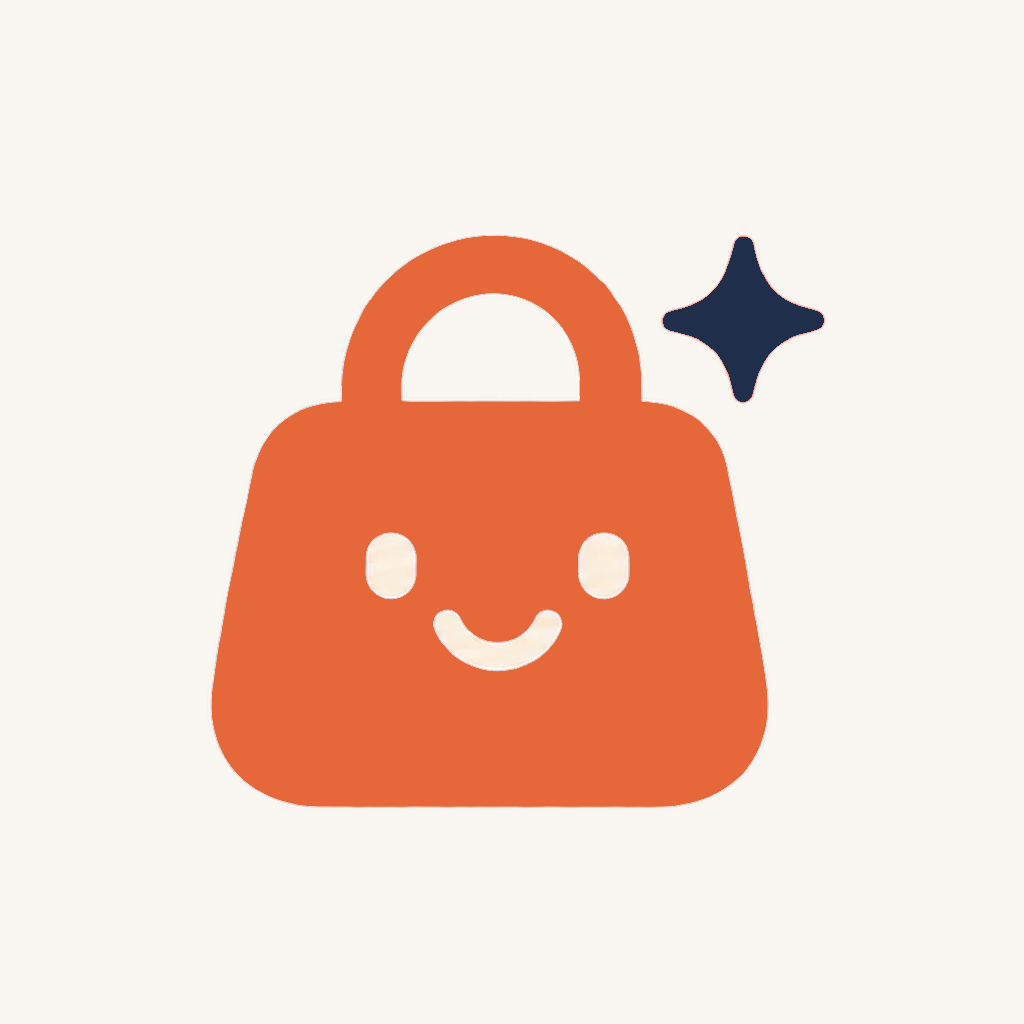
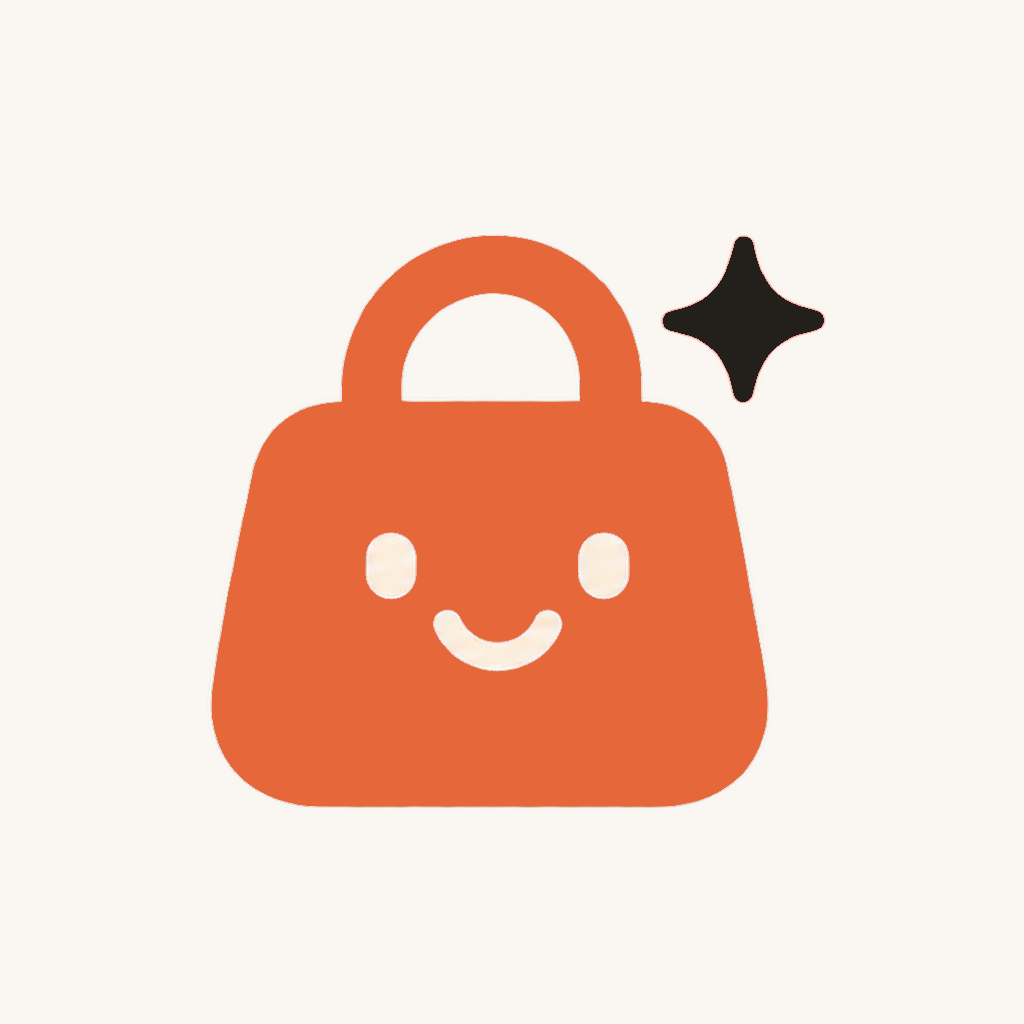
Orange + yellow palette (analogous, Amazon-style): drop the clashing indigo
- Yellow #FFD814 for Add to cart / Add the set / Checkout, charcoal text (11.8:1), darker-yellow edge
- Terracotta orange for the brand and Buy now / primary buttons (white on #BF4F26, 4.8:1)
- Warm charcoal #231F1A replaces indigo for text and dark surfaces; quiz card and result hero in yellow
- Logo, wordmark and icons recoloured (orange bag, charcoal sparkle and wordmark)

Claude-Session: https://claude.ai/code/session_012wqzAwzB3todXZcczmyirL

Changed region(s): [[0.6562, 0.2188, 0.8125, 0.4062]]

diff --git a/marketplace-app/src/lib/theme.ts b/marketplace-app/src/lib/theme.ts
@@ -1,38 +1,40 @@
-// Colour system: "Sunset & Sage" (contrast-checked to WCAG AA).
-// - TERRACOTTA (#E66739) is the brand: logo, icons, badges. Buying actions use a deeper terracotta
-//   (#BF4F26) so white button text passes AA (4.8:1; white on #E66739 is only 3.3:1). Warm orange-red
-//   reads as energy and appetite, and it is used for buying only, so the button is what the eye finds.
-// - DEEP INDIGO (#1E2E4B) is terracotta's complement (blue vs orange): text, headers, primary buttons.
-//   Indigo on cream is 12.7:1.
-// - SAGE (#8AA382) is the calm counterweight (green opposite red on the wheel): secondary actions
-//   (indigo text on sage, 4.9:1) and trust cues (deep sage text #4D6B46, 5.6:1).
-// - SOFT BLUSH (#F6E3E0) for highlighted panels; WARM CREAM (#FAF7F2) background keeps photos the most
-//   saturated thing on screen.
-// - Red only means a real saving or a problem (sale prices, low stock, errors, count badges).
+// Colour system: warm analogous palette, orange + yellow (contrast-checked to WCAG AA).
+// - Orange and yellow sit next to each other on the colour wheel (analogous harmony), so nothing
+//   clashes; the earlier indigo was orange's complement and fought with it on a warm background.
+//   It is the palette shoppers already read as "buy" (Amazon: yellow Add to Cart, orange Buy Now).
+// - YELLOW (#FFD814) is the main buying action (Add to cart, Add the set, Checkout, Pay), with
+//   charcoal text (11.8:1) and a darker-yellow edge, because yellow on cream is only 1.3:1.
+// - TERRACOTTA ORANGE is the brand (#E66739 logo, icons) and the strong secondary action
+//   (Buy now, primary buttons: #BF4F26 with white text, 4.8:1); #B34A22 for orange text and links (5.0:1).
+// - WARM CHARCOAL (#231F1A) replaces blue for text and dark surfaces (15.3:1 on cream): a neutral
+//   that belongs to the warm family instead of competing with it.
+// - Green only means trust (in stock, returns, guarantees); red only means a saving or a problem.
 export const C = {
   bg: '#FAF7F2', // warm cream
   surface: '#FFFFFF',
-  ink: '#1E2E4B', // deep indigo
-  ink2: '#4A5670',
-  ink3: '#646D85',
+  ink: '#231F1A', // warm charcoal
+  ink2: '#5A5148',
+  ink3: '#716759',
   line: '#EDE6DC',
   photo: '#F3EEE7', // product photo backdrop
-  accent: '#B34A22', // terracotta text: links, selection, progress, icons (5.0:1 on cream)
-  accentSoft: '#F6E3E0', // soft blush
-  buy: '#BF4F26', // deep terracotta: buying actions only
-  buyPressed: '#A8431F',
-  buyInk: '#FFFFFF',
-  buySoft: '#FBE9E2',
+  accent: '#B34A22', // orange text: links, selection, progress, icons
+  accentSoft: '#FDE9DC', // soft orange panels
+  buy: '#FFD814', // yellow: main buying actions
+  buyPressed: '#F7CA00',
+  buyInk: '#231F1A',
+  buyEdge: '#E3B800', // button edge so yellow reads on cream
+  buySoft: '#FFF3C4',
   brand: '#E66739', // terracotta: logo, icons, badges (not text)
-  sage: '#8AA382', // secondary actions, with indigo text
+  primary: '#BF4F26', // deep terracotta: Buy now, primary buttons (white text)
+  sage: '#FDE1D3', // secondary actions (soft orange), charcoal text
   sale: '#C8102E', // real discounts, low stock, errors, badges
   saleSoft: '#FDE8EA',
-  good: '#4D6B46', // deep sage: in stock, returns, guarantees, success
+  good: '#4D6B46', // trust: in stock, returns, guarantees, success
   goodSoft: '#E8EFE5',
   warn: '#8A5A00',
   warnSoft: '#FFF3D1',
   spark: '#E66739', // logo and mascot accents
-  dark: '#1E2E4B',
+  dark: '#231F1A',
 };
 
 export const R = { sm: 8, md: 14, lg: 20, pill: 999 };

diff --git a/marketplace-app/src/app/match/[icp].tsx b/marketplace-app/src/app/match/[icp].tsx
@@ -38,16 +38,16 @@ export default function Match() {
     <SafeAreaView edges={['top']} style={{ flex: 1, backgroundColor: C.bg }}>
       <Header back title="Your match" />
       <ScrollView contentContainerStyle={{ paddingBottom: 40 }}>
-        <View style={{ margin: S.lg, padding: S.lg, borderRadius: R.lg, backgroundColor: C.ink }}>
-          <Text style={[T.tiny, { color: '#F2A584' }]}>YOUR MATCH</Text>
-          <Text style={{ color: '#fff', fontSize: 28, fontWeight: '900', marginTop: 6 }}>{info.title}</Text>
-          <Text style={{ color: '#D9DEEA', marginTop: 6, fontSize: 15, lineHeight: 21 }}>{info.line} Here's what fits, best match first.</Text>
+        <View style={{ margin: S.lg, padding: S.lg, borderRadius: R.lg, backgroundColor: C.buy, borderWidth: 1, borderColor: C.buyEdge }}>
+          <Text style={[T.tiny, { color: C.ink }]}>YOUR MATCH</Text>
+          <Text style={{ color: C.ink, fontSize: 28, fontWeight: '900', marginTop: 6 }}>{info.title}</Text>
+          <Text style={{ color: C.ink2, marginTop: 6, fontSize: 15, lineHeight: 21 }}>{info.line} Here's what fits, best match first.</Text>
         </View>
         {routine.length >= 2 && (
           <View style={{ marginHorizontal: S.lg, marginBottom: S.lg, padding: S.lg, borderRadius: R.lg, backgroundColor: C.surface, borderWidth: 1, borderColor: C.line, gap: 8 }}>
             <Text style={T.h3}>{p.area === 'skin' ? 'Your routine' : 'Your starter set'}</Text>
             <Text style={T.small}>{routine.map(x => x.title).join(' + ')}</Text>
-            <Button title={`Add all ${routine.length} · ${money(routine.reduce((n, x) => n + x.price, 0))}`} kind="sage" icon="bag-add"
+            <Button title={`Add all ${routine.length} · ${money(routine.reduce((n, x) => n + x.price, 0))}`} kind="buy" icon="bag-add"
               onPress={() => { routine.forEach((x, i) => add(x, null, 1, { toast: i === routine.length - 1 ? `Added ${routine.length} items` : false })); track('quiz_result_add', { icp: p.icp, items: routine.length }); }} />
           </View>
         )}

diff --git a/marketplace-app/src/app/(tabs)/index.tsx b/marketplace-app/src/app/(tabs)/index.tsx
@@ -72,13 +72,13 @@ export default function Home() {
           </View>
         ) : showQuiz && (
           <Pressable onPress={() => { track('quiz_entry_tap', { from: 'home' }); router.push({ pathname: '/quiz', params: { from: 'home' } }); }} accessibilityRole="button"
-            style={{ margin: S.lg, marginBottom: 0, padding: S.lg, borderRadius: R.lg, backgroundColor: C.ink, flexDirection: 'row', alignItems: 'center', gap: 12 }}>
-            <Ionicons name="sparkles" size={24} color="#F2A584" />
+            style={{ margin: S.lg, marginBottom: 0, padding: S.lg, borderRadius: R.lg, backgroundColor: C.buy, borderWidth: 1, borderColor: C.buyEdge, flexDirection: 'row', alignItems: 'center', gap: 12 }}>
+            <Ionicons name="sparkles" size={24} color={C.ink} />
             <View style={{ flex: 1 }}>
-              <Text style={{ color: '#fff', fontWeight: '800', fontSize: 16 }}>Find your match in 30 seconds</Text>
-              <Text style={{ color: '#D9DEEA', marginTop: 2 }}>3 quick questions, then picks for your skin, goals or size.</Text>
+              <Text style={{ color: C.ink, fontWeight: '800', fontSize: 16 }}>Find your match in 30 seconds</Text>
+              <Text style={{ color: C.ink2, marginTop: 2 }}>3 quick questions, then picks for your skin, goals or size.</Text>
             </View>
-            <Ionicons name="chevron-forward" size={20} color="#fff" />
+            <Ionicons name="chevron-forward" size={20} color={C.ink} />
           </Pressable>
         )}
         {/* Shelby: ask in plain words, plus a daily row of picks (the reason to open the app each day) */}

diff --git a/marketplace-app/src/components/ui.tsx b/marketplace-app/src/components/ui.tsx
@@ -15,12 +15,12 @@ export function Button({ title, onPress, kind = 'primary', icon, style, disabled
   title: string; onPress?: () => void; kind?: 'primary' | 'accent' | 'buy' | 'sage' | 'ghost' | 'light'; icon?: IconName;
   style?: StyleProp<ViewStyle>; disabled?: boolean; loading?: boolean; testID?: string;
 }) {
-  const bg = { primary: C.ink, accent: C.accent, buy: C.buy, sage: C.sage, ghost: 'transparent', light: C.surface }[kind];
+  const bg = { primary: C.primary, accent: C.accent, buy: C.buy, sage: C.sage, ghost: 'transparent', light: C.surface }[kind];
   const fg = kind === 'ghost' || kind === 'light' || kind === 'sage' ? C.ink : kind === 'buy' ? C.buyInk : '#fff';
   return (
     <Pressable testID={testID} accessibilityRole="button" accessibilityLabel={title} onPress={tapped('button', title, onPress)} disabled={disabled || loading}
       style={({ pressed }) => [styles.btn, { backgroundColor: bg, opacity: disabled ? 0.4 : pressed ? 0.85 : 1, transform: [{ scale: pressed ? 0.98 : 1 }] },
-        kind === 'ghost' && { borderWidth: 1, borderColor: C.line }, kind === 'light' && { borderWidth: 1, borderColor: C.line }, style]}>
+        kind === 'ghost' && { borderWidth: 1, borderColor: C.line }, kind === 'buy' && { borderWidth: 1, borderColor: C.buyEdge }, kind === 'light' && { borderWidth: 1, borderColor: C.line }, style]}>
       {loading ? <ActivityIndicator color={fg} /> : <>
         {icon && <Ionicons name={icon} size={18} color={fg} />}
         <Text style={[styles.btnText, { color: fg }]}>{title}</Text>
